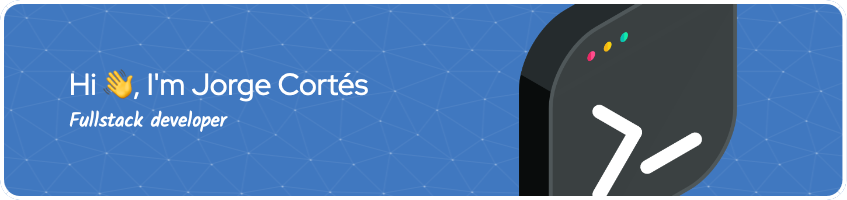
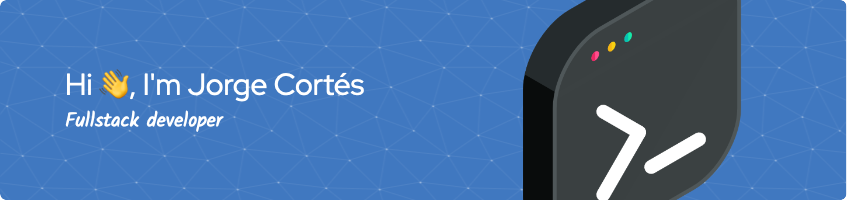
updated header image

diff --git a/README.md b/README.md
@@ -1,6 +1,6 @@
 <img align="center" src="https://raw.githubusercontent.com/jorgecortesdev/jorgecortesdev/main/art/github-header-image.png" alt="Jorge Cortés" />
 <br>
-<br>
+
 <div align="right">
 
 ![GitHub followers](https://img.shields.io/github/followers/jorgecortesdev)
